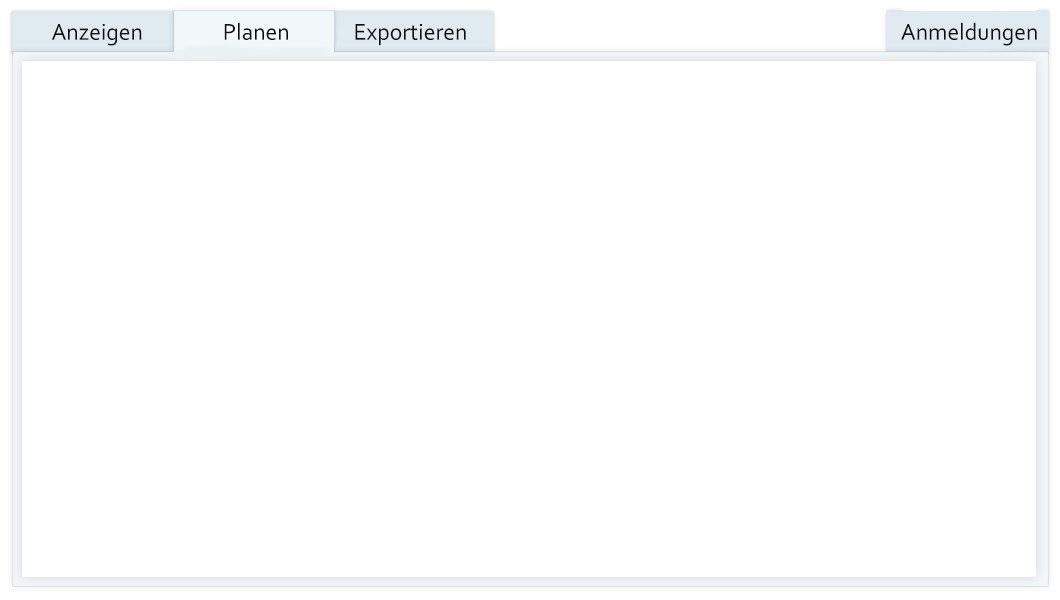
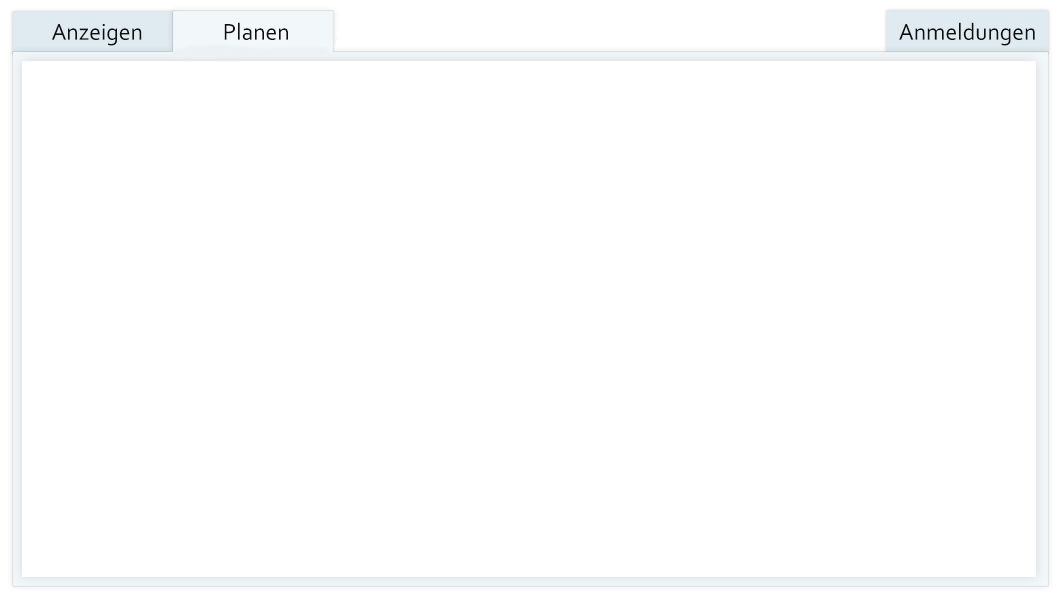
* export panel removed

Changed region(s): [[0.3113, 0.0, 0.467, 0.09], [0.8406, 0.03, 0.9962, 0.09]]

diff --git a/src/main/java/at/ac/tuwien/sepm/ui/StudiesPanel.java b/src/main/java/at/ac/tuwien/sepm/ui/StudiesPanel.java
@@ -17,20 +17,17 @@ import java.util.ArrayList;
 public class StudiesPanel extends StandardInsidePanel {
     private JButton tab1;
     private JButton tab2;
-    private JButton tab3;
     private JButton tab4;
     private PlanPanel planningPanel;
-    private ExportPanel exportPanel;
     private ViewPanel viewPanel;
     private RegisterExamPanel registerExamPanel;
 
     private PropertyService propertyService;
 
     @Autowired
-    public StudiesPanel(PropertyService propertyService, PlanPanel planningPanel, ExportPanel exportPanel, ViewPanel viewPanel, RegisterExamPanel registerExamPanel) {
+    public StudiesPanel(PropertyService propertyService, PlanPanel planningPanel, ViewPanel viewPanel, RegisterExamPanel registerExamPanel) {
         init();
         this.planningPanel = planningPanel;
-        this.exportPanel = exportPanel;
         this.viewPanel = viewPanel;
         this.registerExamPanel = registerExamPanel;
         this.propertyService = propertyService;
@@ -44,13 +41,11 @@ public class StudiesPanel extends StandardInsidePanel {
     private void createTabButtons() {
         tab1 = new JButton();
         tab2 = new JButton();
-        tab3 = new JButton();
         tab4 = new JButton();
 
         ArrayList<JButton> tabs = new ArrayList<JButton>();
         tabs.add(tab1);
         tabs.add(tab2);
-        tabs.add(tab3);
         tabs.add(tab4);
 
         tab1.setBounds(41,30,160,40);
@@ -59,7 +54,6 @@ public class StudiesPanel extends StandardInsidePanel {
             public void actionPerformed(ActionEvent actionEvent) {
                 changeImage(1);
                 remove(planningPanel);
-                remove(exportPanel);
                 remove(registerExamPanel);
                 add(viewPanel);
                 viewPanel.refresh();
@@ -73,7 +67,6 @@ public class StudiesPanel extends StandardInsidePanel {
             @Override
             public void actionPerformed(ActionEvent actionEvent) {
                 changeImage(2);
-                remove(exportPanel);
                 remove(viewPanel);
                 remove(registerExamPanel);
                 add(planningPanel);
@@ -82,22 +75,6 @@ public class StudiesPanel extends StandardInsidePanel {
                 StudiesPanel.this.repaint();
             }
         });
-
-        tab3.setBounds(41+160*2,30,160,40);
-        tab3.addActionListener(new ActionListener() {
-            @Override
-            public void actionPerformed(ActionEvent actionEvent) {
-                changeImage(3);
-                add(exportPanel);
-                remove(viewPanel);
-                remove(planningPanel);
-                remove(registerExamPanel);
-                exportPanel.refresh();
-                StudiesPanel.this.validate();
-                StudiesPanel.this.repaint();
-            }
-        });
-
         tab4.setBounds(41+160*3+396,30,160,40);
         tab4.addActionListener(new ActionListener() {
             @Override
@@ -106,8 +83,7 @@ public class StudiesPanel extends StandardInsidePanel {
                     JOptionPane.showMessageDialog(StudiesPanel.this, "Um dieses Modul nutzen zu können müssen Sie die TISS Kennungsdaten unter Einstellungen angeben", "Anmeldungen", JOptionPane.ERROR_MESSAGE);
                     return;
                 }
-                changeImage(4);
-                remove(exportPanel);
+                changeImage(3);
                 remove(viewPanel);
                 remove(planningPanel);
                 add(registerExamPanel);
@@ -117,7 +93,7 @@ public class StudiesPanel extends StandardInsidePanel {
             }
         });
 
-        for (int i = 0; i < 4; i++) {
+        for (int i = 0; i < 3; i++) {
             tabs.get(i).setCursor(new Cursor(Cursor.HAND_CURSOR));
             tabs.get(i).setOpaque(false);
             tabs.get(i).setContentAreaFilled(false);
@@ -130,16 +106,13 @@ public class StudiesPanel extends StandardInsidePanel {
         try{
             switch(nmb) {
                 case 1:
-                    image = ImageIO.read(ClassLoader.getSystemResource("img/studa.png"));
+                    image = ImageIO.read(ClassLoader.getSystemResource("img/studanz.png"));
                     break;
                 case 2:
                     image = ImageIO.read(ClassLoader.getSystemResource("img/studp.png"));
                     break;
                 case 3:
-                    image = ImageIO.read(ClassLoader.getSystemResource("img/stude.png"));
-                    break;
-                case 4:
-                    image = ImageIO.read(ClassLoader.getSystemResource("img/studg.png"));
+                    image = ImageIO.read(ClassLoader.getSystemResource("img/studan.png"));
                     break;
                 default:
                     break;

diff --git a/src/main/java/at/ac/tuwien/sepm/ui/studyProgress/display/ViewPanel.java b/src/main/java/at/ac/tuwien/sepm/ui/studyProgress/display/ViewPanel.java
@@ -33,6 +33,7 @@ public class ViewPanel extends StandardInsidePanel {
     private JLabel majorName = new JLabel("dummy");
     private JButton fwd;
     private JButton bwd;
+    private JButton exportButton;
     private SemesterPanel semester;
     private LVAService service;
     private PropertyService propertyService;
@@ -107,6 +108,7 @@ public class ViewPanel extends StandardInsidePanel {
     private void initButtons() {
         fwd = new JButton();
         bwd = new JButton();
+        exportButton= new JButton("Semesterdaten exportieren");
 
         try {
             bwd.setIcon(new ImageIcon(ImageIO.read(new File("src/main/resources/img/navleft.png"))));
@@ -141,8 +143,19 @@ public class ViewPanel extends StandardInsidePanel {
                 refresh();
             }
         });
-        this.add(fwd);
+
+        exportButton.setBounds(semester.getX(),semester.getY()+semester.getHeight()+5,200,40);
+        exportButton.setCursor(new Cursor(Cursor.HAND_CURSOR));
+        exportButton.setFont(standardButtonFont);
+        exportButton.addActionListener(new ActionListener() {
+            @Override
+            public void actionPerformed(ActionEvent actionEvent) {
+                //todo
+            }
+        });
+
         this.add(bwd);
+        this.add(exportButton);
     }
 
     private void initSemesterPanel() {
@@ -236,15 +249,27 @@ public class ViewPanel extends StandardInsidePanel {
 
         void next() {
             if (currSemester < semesterAnz) {
+                ViewPanel.this.add(bwd);
+                ViewPanel.this.add(fwd);
                 currSemester++;
                 currWinterSemester =!currWinterSemester;
+                if (currSemester == semesterAnz) {
+                    ViewPanel.this.remove(fwd);
+                }
+                ViewPanel.this.repaint();
             }
         }
 
         void last() {
             if (currSemester > 1) {
+                ViewPanel.this.add(bwd);
+                ViewPanel.this.add(fwd);
                 currSemester--;
                 currWinterSemester =!currWinterSemester;
+                if (currSemester == 1) {
+                    ViewPanel.this.remove(bwd);
+                }
+                ViewPanel.this.repaint();
             }
         }
     }
